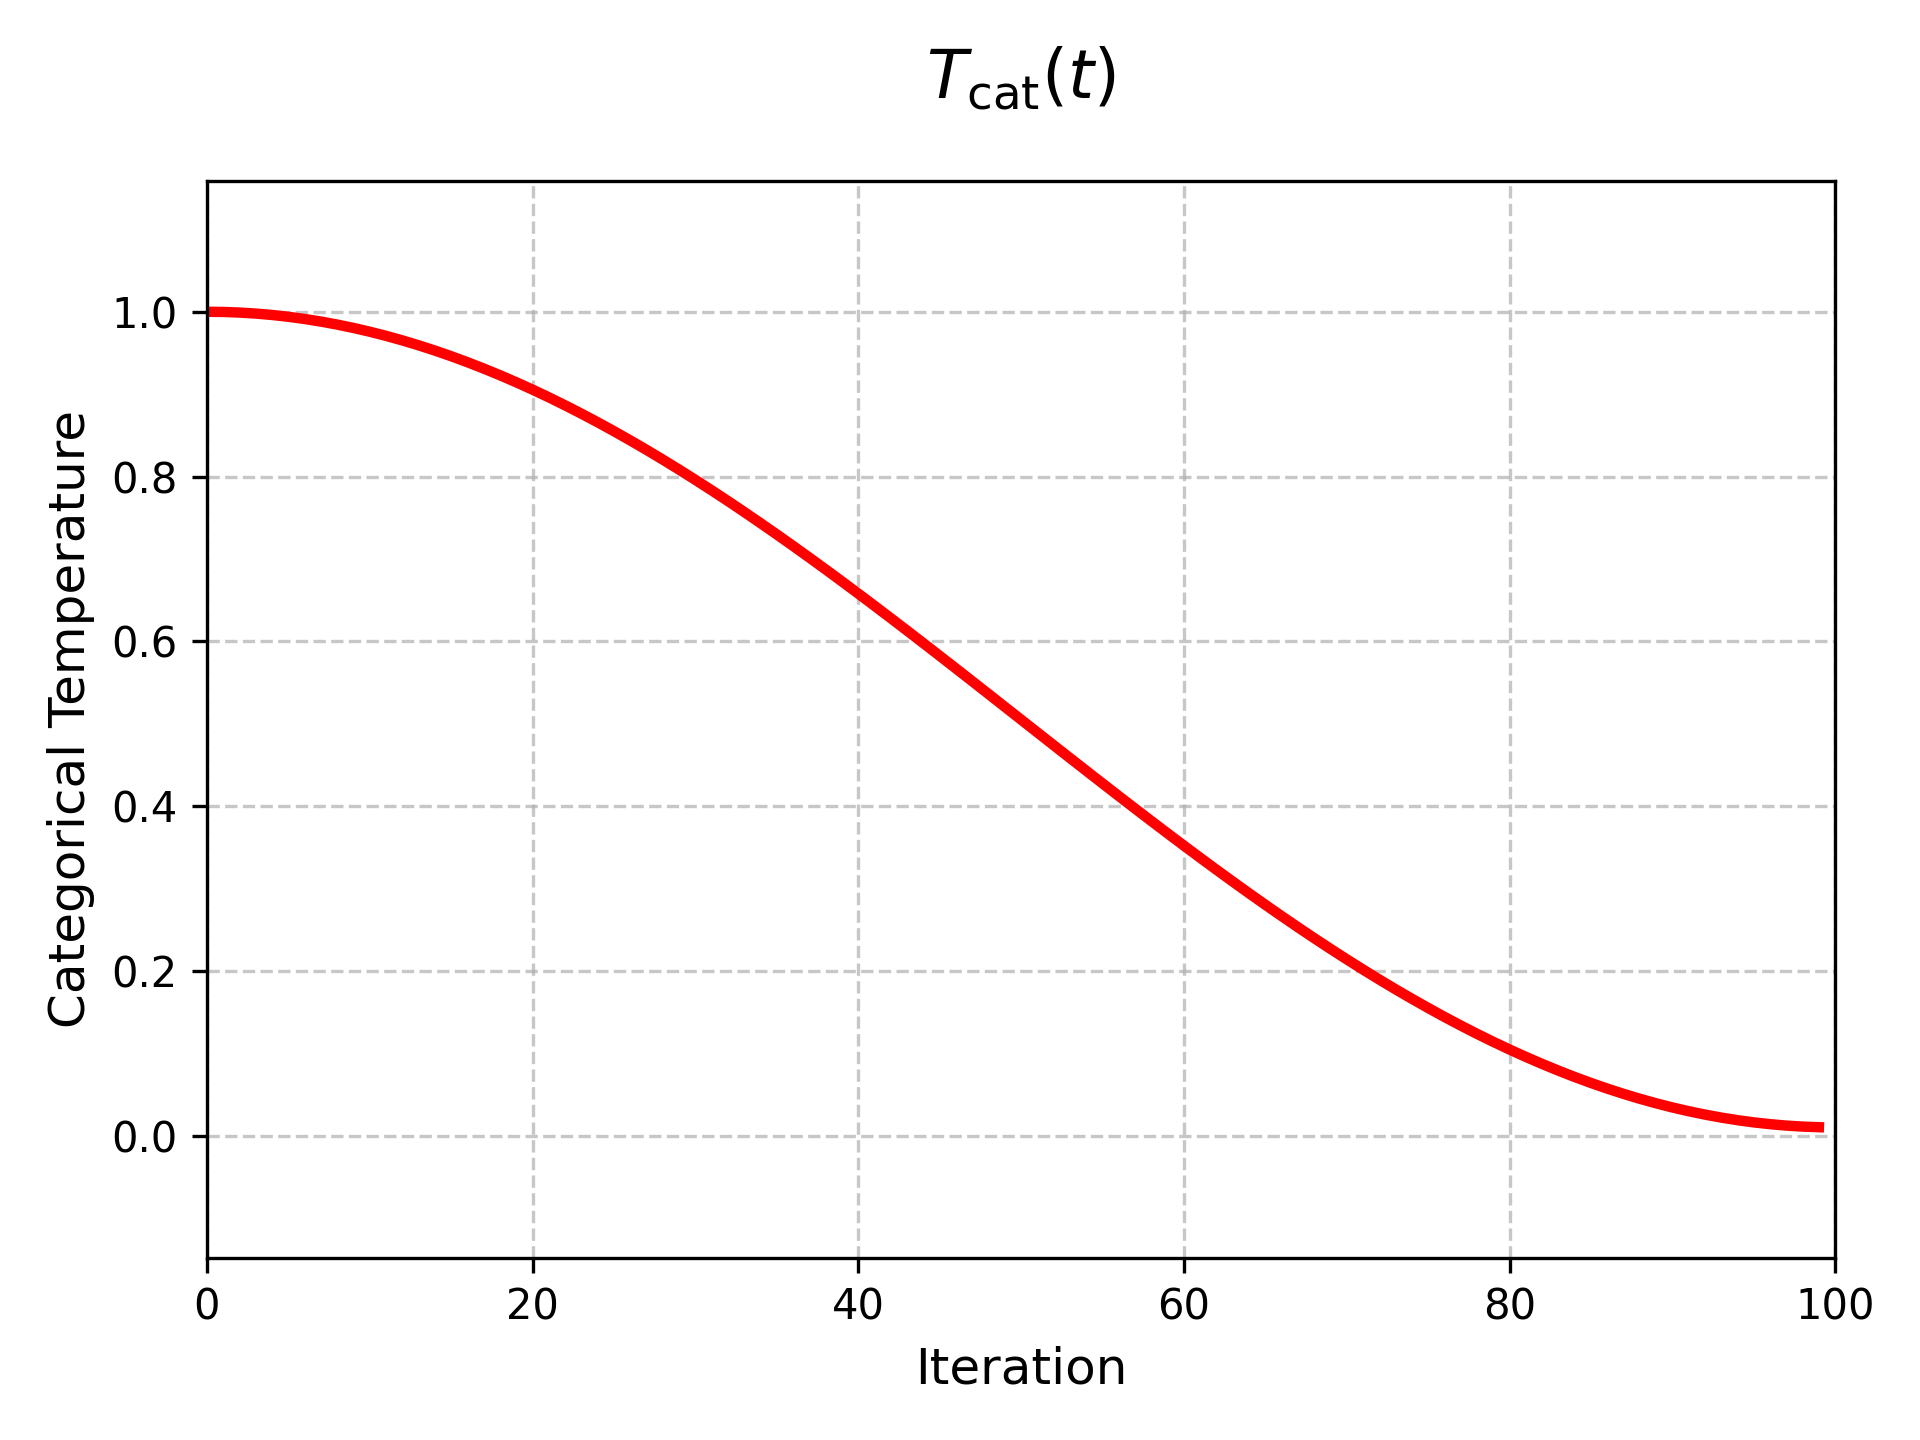
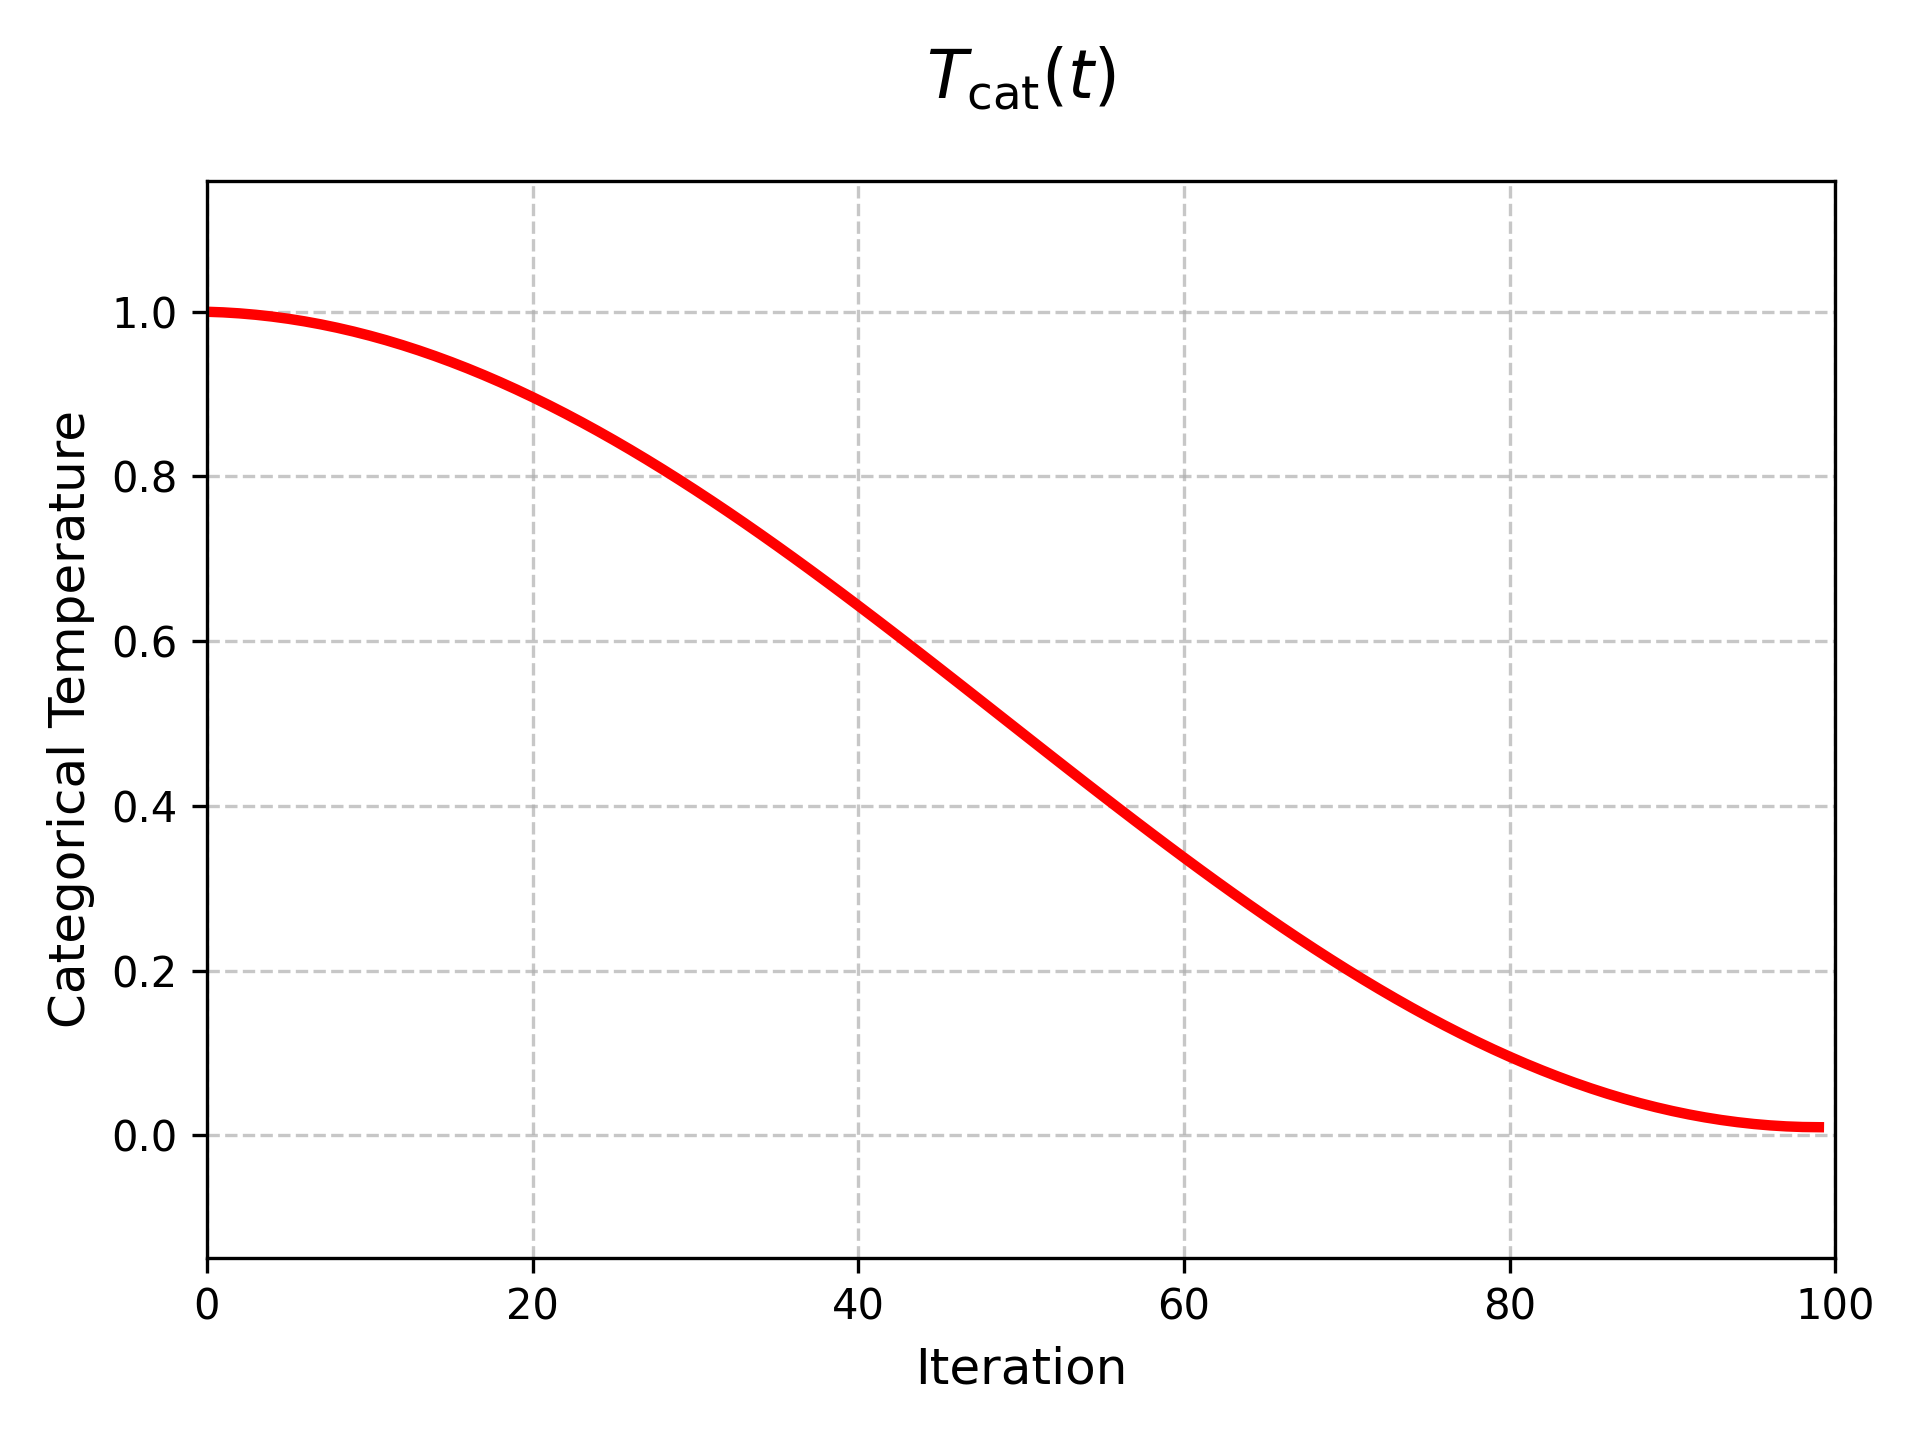
iteration fix

diff --git a/docs/source/_static/algorithm/figure.py b/docs/source/_static/algorithm/figure.py
@@ -14,7 +14,7 @@ def calculate_adaptive_params(n_trials, initial_noise=0.2, final_noise=None):
     elite_scale = 2.0 * np.sqrt(n_trials)
 
     for iteration in range(n_trials):
-        progress = iteration / n_trials
+        progress = (iteration + 1)  / n_trials
         n_elites[iteration] = max(1, round(elite_scale * progress * (1 - progress)))
         cos_anneal = (1 + np.cos(np.pi * progress)) * 0.5
         noise_levels[iteration] = final_noise + (initial_noise - final_noise) * cos_anneal

diff --git a/marsopt/solver.py b/marsopt/solver.py
@@ -649,7 +649,7 @@ class Study:
         # Start from the existing trials count
         for iteration in range(n_exist_trials, total_trials):
             start_time = perf_counter()
-            self._progress = iteration / self.n_trials
+            self._progress = (iteration + 1) / self.n_trials
 
             if iteration >= self.n_init_points:
                 self._current_n_elites = max(
